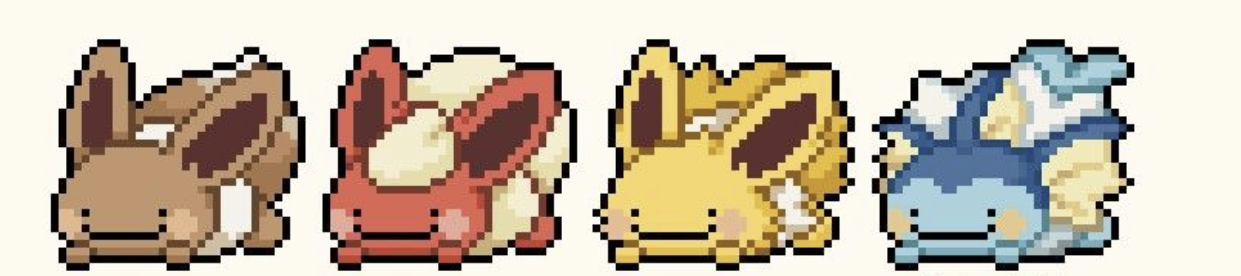
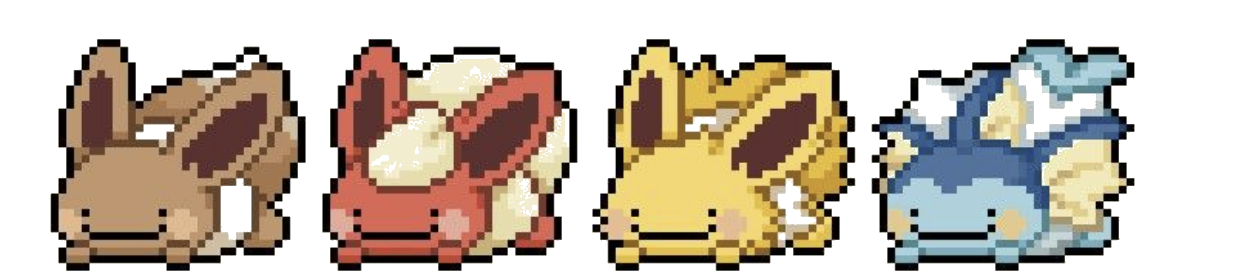
feat: 캐릭터 이미지 배경 투명화 및 사이즈 확대 (200→240px)

diff --git a/web/styles.css b/web/styles.css
@@ -68,9 +68,8 @@ body {
 }
 
 .header__character {
-  width: 200px;
+  width: 240px;
   height: auto;
-  mix-blend-mode: multiply;
   pointer-events: none;
   flex-shrink: 0;
 }
